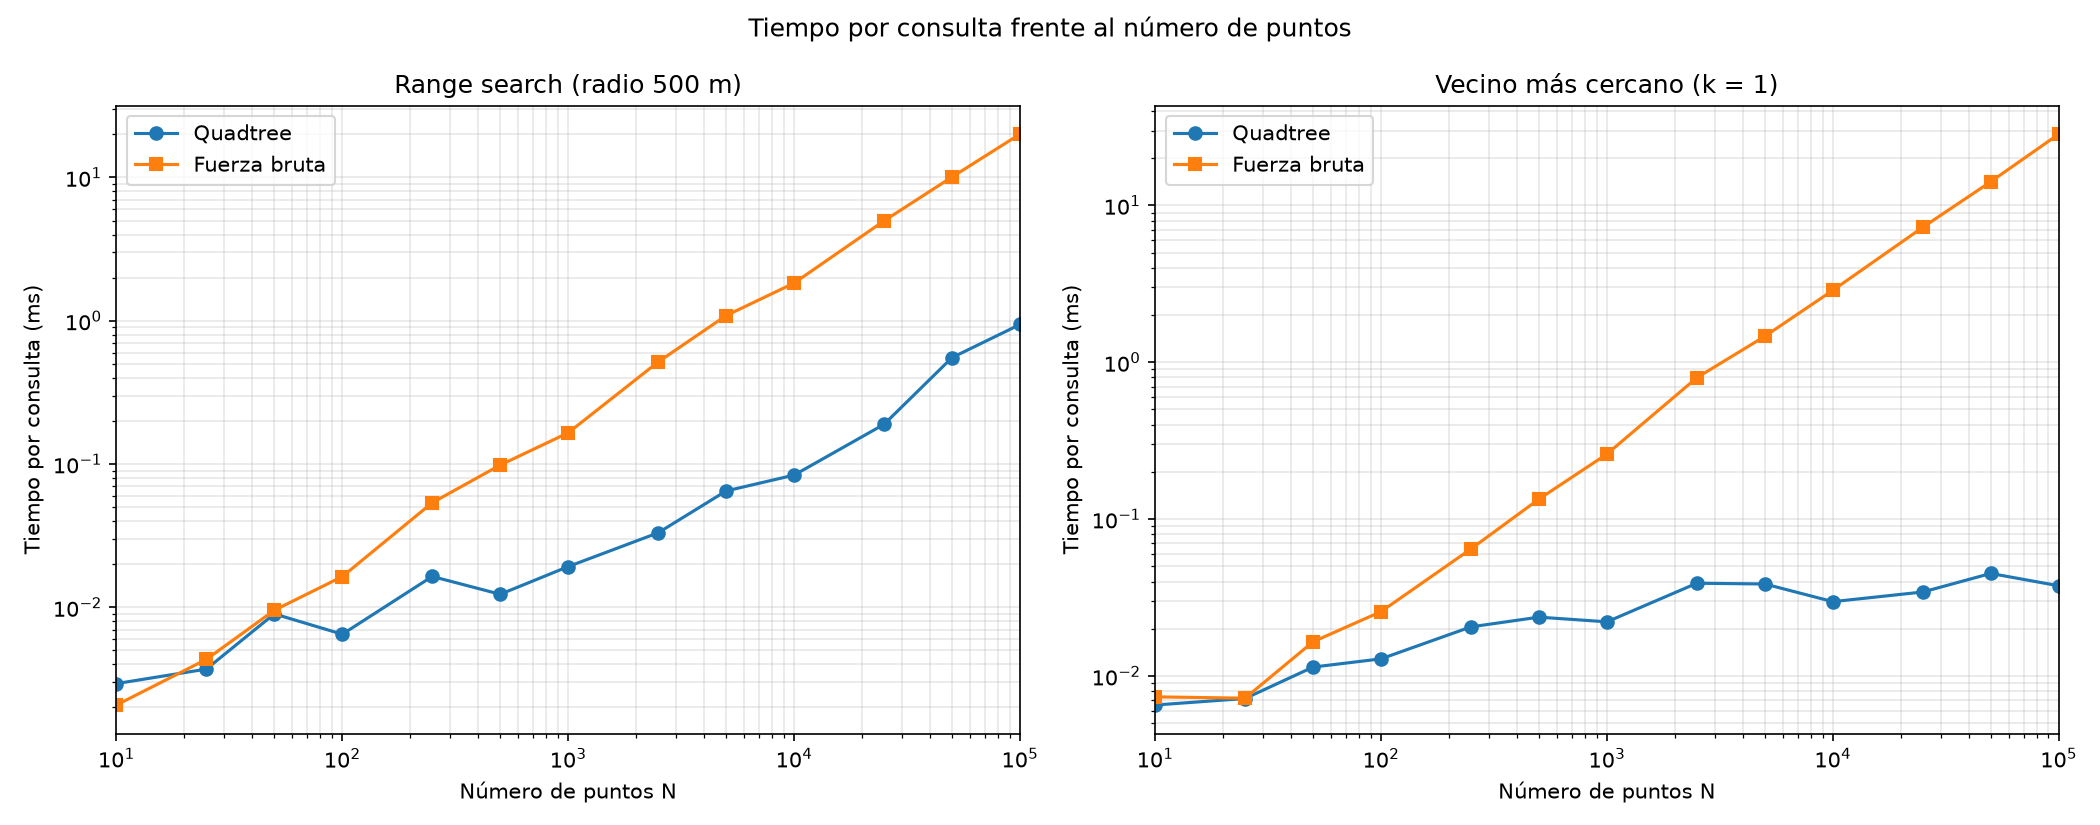
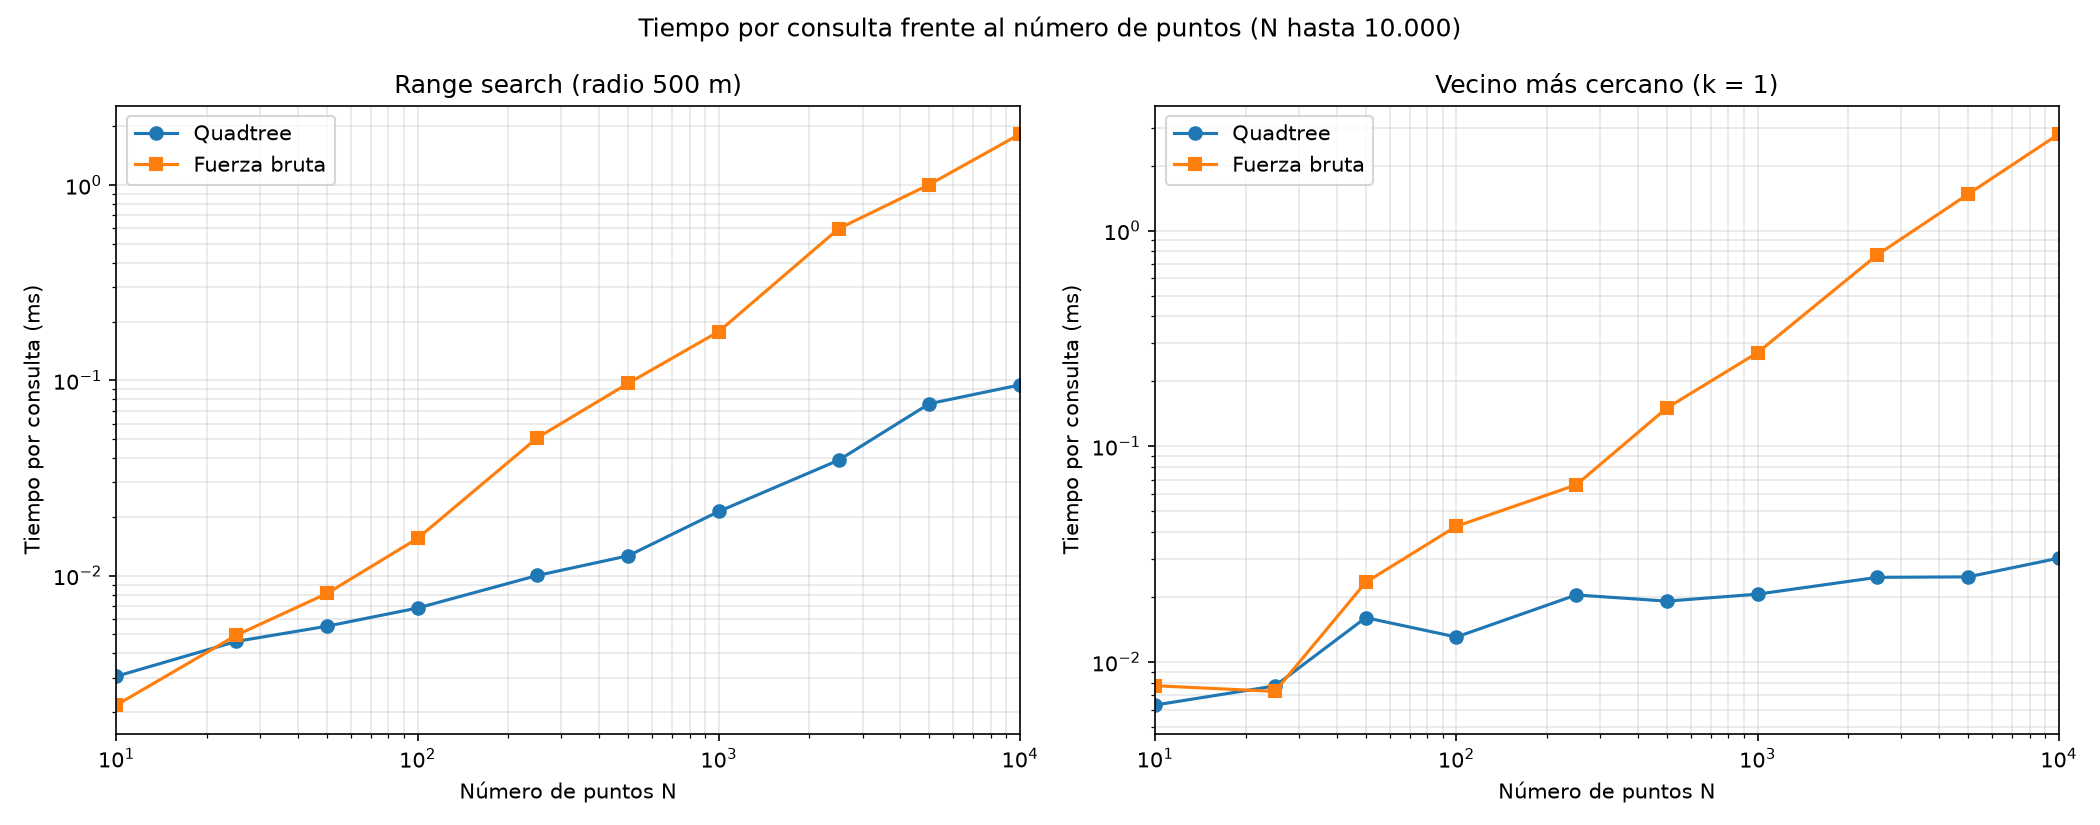
Ultimo arreglo en las graficas

diff --git a/analisis.py b/analisis.py
@@ -128,7 +128,8 @@ def guardar_csv(filas, ruta):
 
 
 def graficar_rendimiento(filas, ruta):
-    ns = [f["n"] for f in filas]
+    filas_grafica = [f for f in filas if f["n"] <= 10000]
+    ns = [f["n"] for f in filas_grafica]
     fig, ejes = plt.subplots(1, 2, figsize=(14, 5.5))
 
     operaciones = (
@@ -136,16 +137,16 @@ def graficar_rendimiento(filas, ruta):
         ("vecino_qt_s", "vecino_bf_s", "Vecino más cercano (k = 1)"),
     )
     for ax, (tiempo_qt, tiempo_bf, titulo) in zip(ejes, operaciones):
-        ax.loglog(ns, [1000 * f[tiempo_qt] for f in filas], "o-", label="Quadtree")
-        ax.loglog(ns, [1000 * f[tiempo_bf] for f in filas], "s-", label="Fuerza bruta")
-        ax.set_xlim(min(ns), max(ns))
+        ax.loglog(ns, [1000 * f[tiempo_qt] for f in filas_grafica], "o-", label="Quadtree")
+        ax.loglog(ns, [1000 * f[tiempo_bf] for f in filas_grafica], "s-", label="Fuerza bruta")
+        ax.set_xlim(min(ns), 10000)
         ax.set_title(titulo)
         ax.set_xlabel("Número de puntos N")
         ax.set_ylabel("Tiempo por consulta (ms)")
         ax.grid(True, which="both", alpha=0.3)
         ax.legend()
 
-    fig.suptitle("Tiempo por consulta frente al número de puntos")
+    fig.suptitle("Tiempo por consulta frente al número de puntos (N hasta 10.000)")
     fig.tight_layout()
     fig.savefig(ruta, dpi=150)
     plt.close(fig)
